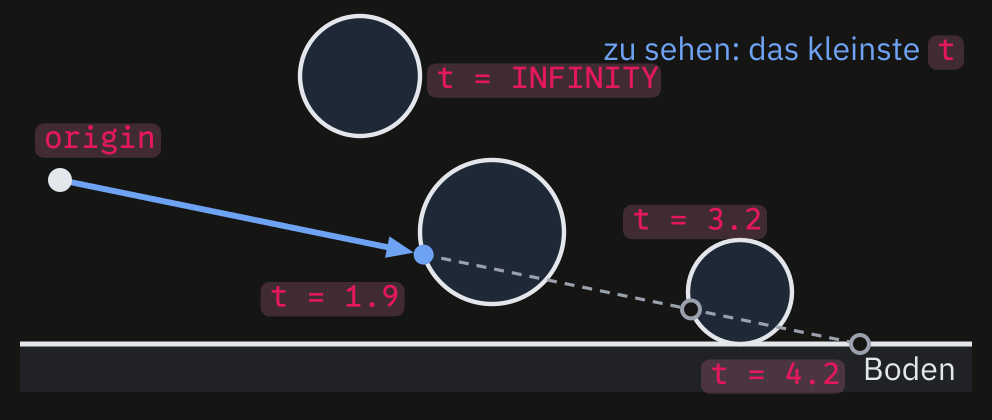
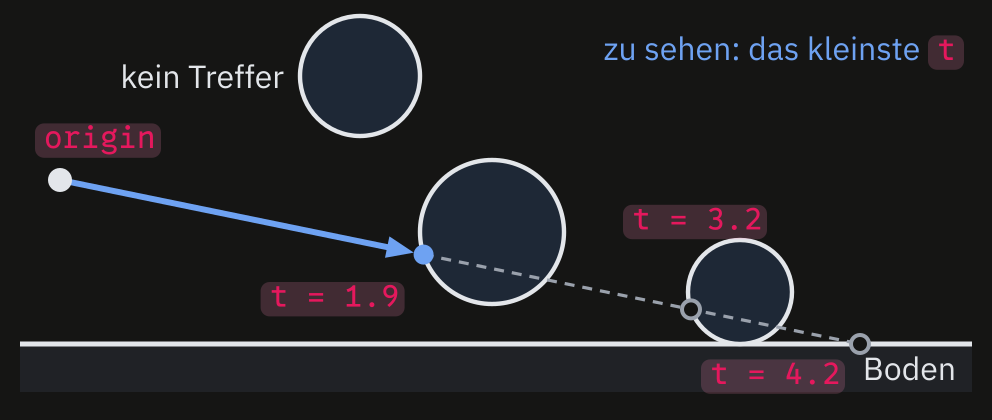
Raytracing, »Der nächste Treffer«: the sphere the ray misses says »kein Treffer« instead of t = INFINITY, left of it

Changed region(s): [[0.4062, 0.1238, 0.6875, 0.2476], [0.125, 0.1548, 0.2812, 0.2167]]

diff --git a/src/content/raytracing/bilder/diagramme.py b/src/content/raytracing/bilder/diagramme.py
@@ -305,7 +305,7 @@ def skalarprodukt():
 
 def naechster():
     w, h = 496, 210
-    s = Svg('naechster', w, h, 'Ein Strahl von origin: Eine Kugel verfehlt er (t = INFINITY), zwei trifft er bei t = 1.9 '
+    s = Svg('naechster', w, h, 'Ein Strahl von origin: Eine Kugel verfehlt er (kein Treffer), zwei trifft er bei t = 1.9 '
             'und t = 3.2, den Boden bei t = 4.2. Zu sehen ist der Treffer mit dem kleinsten t.')
     fy = 172
     s.rect(10, fy, w - 20, 24, LIGHT)
@@ -334,7 +334,7 @@ def naechster():
     pf = add(o, mul(d, t_floor))
     s.hollow(pf, 4.5, GREY)
     s.code(add(pf, (-12, 20)), 't = 4.2', 'end')
-    s.code((180 + 38, 38 + 6), 't = INFINITY')
+    s.text((180 - 38, 38 + 6), 'kein Treffer', INK, 'end')
     s.dot(o, 6)
     s.code((o[0] - 8, o[1] - 16), 'origin')
     s.label((w - 14, 30), ['zu sehen: das kleinste ', ('c', 't')], BLUE, 'end')

diff --git a/src/content/raytracing/raytracing.md b/src/content/raytracing/raytracing.md
@@ -590,7 +590,7 @@ _task(boden)
 
 Ein Strahl kann mehrere Dinge treffen; zu sehen ist das vorderste. `nearest_hit` fragt den Boden und jede Kugel und behält das kleinste `t`.
 
-<img class='drawing' style='width: 31em' src='naechster.webp' alt='Ein Strahl beginnt links bei origin und läuft leicht abwärts nach rechts. Oben verfehlt er einen Kreis: t = INFINITY. Den zweiten Kreis trifft er bei t = 1.9, dort endet der blaue Pfeil; gestrichelt geht er weiter, trifft einen dritten Kreis bei t = 3.2 und den Boden bei t = 4.2. Oben steht: zu sehen: das kleinste t.'>
+<img class='drawing' style='width: 31em' src='naechster.webp' alt='Ein Strahl beginnt links bei origin und läuft leicht abwärts nach rechts. Oben verfehlt er einen Kreis: kein Treffer. Den zweiten Kreis trifft er bei t = 1.9, dort endet der blaue Pfeil; gestrichelt geht er weiter, trifft einen dritten Kreis bei t = 3.2 und den Boden bei t = 4.2. Oben steht: zu sehen: das kleinste t.'>
 
 Was über den Treffer bekannt ist, sammelt es in einem `hit`. Beides kommt unter `hit_floor`:
 
